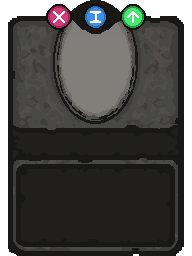
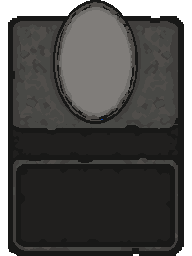
Add new pixel art assets and enhance component styling
- Introduced a new button asset 'btn-info-48.png' and updated existing exercise card assets for improved visual consistency.
- Enhanced the styling of the SearchInput, Input, TextArea, and ExerciseCard components with transition effects for better user interaction.
- Updated pagination and selector components to improve visual feedback and responsiveness.
- Added new props to ExerciseCard for better state management during exercise creation.

Changed region(s): [[0.2188, 0.0, 0.7812, 0.1562]]

diff --git a/src/components/exercise/exercise-card.tsx b/src/components/exercise/exercise-card.tsx
@@ -12,6 +12,7 @@ interface ExerciseCardProps {
     options?: { replace: boolean }
   ) => void;
   isCreatingTemplate?: boolean;
+  isCreatingExercise?: boolean;
   templateExercises?: TemplateExercise[];
   setTemplateExercises?: (exercises: TemplateExercise[]) => void;
 }
@@ -22,6 +23,7 @@ export const ExerciseCard = ({
   setExerciseForUpdate,
   setSearchParams,
   isCreatingTemplate,
+  isCreatingExercise,
   templateExercises,
   setTemplateExercises,
 }: ExerciseCardProps) => {
@@ -45,14 +47,30 @@ export const ExerciseCard = ({
         key={exercise.id}
         onClick={handleAddExerciseToTemplate}
         className={`${
-          !isCreatingTemplate
-            ? "cursor-default"
-            : "cursor-pointer hover:scale-105 transition-all duration-300"
-        } flex-col w-[192px] h-[256px] flex items-center justify-center rounded-md flex-grow-0 flex-shrink-0 transition-all duration-300 relative`}
+          !isCreatingTemplate ? "cursor-default" : "cursor-pointer"
+        } flex-col w-[192px] h-[256px] flex items-center group justify-center rounded-md flex-grow-0 flex-shrink-0 transition-all duration-300 relative`}
         src="src/assets/pixel-art/exercise-cards/generic-exercise-card.png"
         alt="exercise-card"
         imgClassName="absolute top-0 left-0 w-full h-full"
       >
+        <button
+          onClick={(e: React.MouseEvent<HTMLButtonElement>) => {
+            e.preventDefault();
+            e.stopPropagation();
+            console.log(exerciseForUpdate, isCreatingExercise);
+          }}
+        >
+          <RenderPng
+            src="src/assets/pixel-art/buttons/btn-info-48.png"
+            alt="info-button"
+            className={`absolute top-0 right-[-0.5rem] size-[48px] hidden ${
+              !exerciseForUpdate && !isCreatingExercise
+                ? "group-hover:block"
+                : ""
+            } cursor-pointer`}
+            imgClassName="transition-all filter brightness-75 duration-200 hover:brightness-110"
+          />
+        </button>
         {/* <div
           className={`${
             exercise.exerciseMuscleGroups.length < 2
@@ -79,7 +97,7 @@ export const ExerciseCard = ({
             ))}
         </div> */}
 
-        <div className="flex w-full items-center absolute top-6 justify-center pt-3">
+        <div className="flex overflow-hidden items-center absolute top-6 rounded-full size-max justify-center">
           {exercise.exerciseMuscleGroups
             .filter((muscleGroup) => muscleGroup.isPrimary)
             .map((muscleGroup) => (
@@ -87,7 +105,7 @@ export const ExerciseCard = ({
                 key={muscleGroup.muscleGroup.name}
                 src={`src/assets/pixel-art/muscles/${muscleGroup.muscleGroup.name}.svg`}
                 alt={`${muscleGroup.muscleGroup.name} icon`}
-                className="size-16"
+                className="size-18"
               />
             ))}
         </div>
@@ -104,7 +122,7 @@ export const ExerciseCard = ({
             position="center"
             size="auto"
             repeat="no-repeat"
-            className={` size-7 rounded-lg p-1 absolute top-28`}
+            className="size-7 rounded-lg p-1 absolute top-28"
           />
         )}
 
@@ -128,7 +146,7 @@ export const ExerciseCard = ({
             ? exercise.description
             : "There is no description"}
         </div>
-        {setSearchParams && (
+        {/* {setSearchParams && (
           <button
             className="cursor-pointer absolute left-[47px] top-[5px] size-6 rounded-full"
             disabled={
@@ -168,7 +186,7 @@ export const ExerciseCard = ({
               }
             }}
           />
-        )}
+        )} */}
       </RenderPng>
     </>
   );

diff --git a/src/pages/user/components/execises/form/exercise-form.tsx b/src/pages/user/components/execises/form/exercise-form.tsx
@@ -133,7 +133,7 @@ const ExerciseForm: React.FC<ExerciseFormProps> = React.memo(
                     size="auto"
                     repeat="no-repeat"
                     position="center"
-                    className="size-[32px] transition-all duration-300 opacity-50 hover:opacity-100"
+                    className="size-[32px] transition-all duration-200 filter brightness-75 hover:brightness-110"
                   />
                 </div>
                 <button
@@ -153,7 +153,7 @@ const ExerciseForm: React.FC<ExerciseFormProps> = React.memo(
                     size="auto"
                     repeat="no-repeat"
                     position="center"
-                    className="size-[32px] transition-all duration-300 opacity-50 hover:opacity-100"
+                    className="size-[32px] transition-all duration-200 filter brightness-75 hover:brightness-110"
                   />
                 </button>
               </div>
@@ -164,7 +164,11 @@ const ExerciseForm: React.FC<ExerciseFormProps> = React.memo(
               className="absolute inset-0 z-99 flex items-start pt-16 cursor-pointer lg:hidden justify-center backdrop-blur-xs bg-neutral-950/50"
               onClick={toggleTooltip}
             >
-              <ExerciseCard exercise={exercise} />
+              <ExerciseCard
+                exercise={exercise}
+                isCreatingExercise={isCreatingExercise}
+                exerciseForUpdate={exerciseForUpdate}
+              />
             </div>
           )}
           <div className="flex flex-col gap-y-2 px-1 h-full overflow-y-auto no-scrollbar">
@@ -253,7 +257,11 @@ const ExerciseForm: React.FC<ExerciseFormProps> = React.memo(
               </div>
 
               <div className="hidden md:col-start-2 col-span-1 md:flex size-full items-center justify-center">
-                <ExerciseCard exercise={exercise} />
+                <ExerciseCard
+                  exercise={exercise}
+                  isCreatingExercise={isCreatingExercise}
+                  exerciseForUpdate={exerciseForUpdate}
+                />
               </div>
 
               <div className="gap-y-3 flex flex-col md:col-start-3 col-span-3 md:col-span-1">
@@ -293,7 +301,7 @@ const ExerciseForm: React.FC<ExerciseFormProps> = React.memo(
                 size="auto"
                 repeat="no-repeat"
                 position="center"
-                className="size-full pb-[4px] transition-all duration-300 opacity-75 tracking-wide hover:opacity-100"
+                className="size-full pb-[4px] tracking-wide flex items-center justify-center filter duration-200 transition-all hover:brightness-125"
               >
                 {isLoading ? (
                   <span className="loading loading-dots loading-md"></span>

diff --git a/src/pages/user/components/template/desktop-template-item.tsx b/src/pages/user/components/template/desktop-template-item.tsx
@@ -111,7 +111,7 @@ export const DesktopTemplateItem: React.FC<DesktopTemplateItemProps> = ({
         <button
           onClick={onRemove}
           aria-label="Remove exercise"
-          className="size-[22px] absolute right-2 top-1/2 -translate-y-1/2 hidden group-hover:block cursor-pointer opacity-60 hover:opacity-100"
+          className="size-[22px] absolute right-2 top-1/2 -translate-y-1/2 hidden group-hover:block cursor-pointer transition-all filter brightness-75 duration-200 hover:filter hover:brightness-110"
         >
           <RenderSvg
             src="url(src/assets/pixel-art/icons/circular-cancel-icon-22.svg)"
@@ -124,8 +124,10 @@ export const DesktopTemplateItem: React.FC<DesktopTemplateItemProps> = ({
         <button
           onClick={() => setIsEditing(!isEditing)}
           className={`${
-            !notes ? "opacity-35" : "opacity-100"
-          } size-[22px] absolute right-9 top-1/2 -translate-y-1/2 hidden group-hover:block cursor-pointer hover:opacity-100`}
+            !notes
+              ? "opacity-35 brightness-75 hover:brightness-110 hover:opacity-75"
+              : "opacity-100 brightness-100 hover:brightness-125"
+          } size-[22px] absolute right-9 top-1/2 -translate-y-1/2 hidden group-hover:block cursor-pointer transition-all duration-200 filter hover:filter`}
         >
           <RenderSvg
             src="url(src/assets/pixel-art/icons/circular-notes-icon-22.svg)"

diff --git a/src/pages/user/components/execises/exercise-codex/codex-pagination.tsx b/src/pages/user/components/execises/exercise-codex/codex-pagination.tsx
@@ -24,8 +24,10 @@ const CodexPaginationComponent: React.FC<CodexPaginationProps> = ({
         className={`sticky ${
           !isCreatingTemplate ? "left-2" : "left-2 lg:left-3"
         } z-2 top-1/2 translate-y-1/2 size-8 pb-[2px] ${
-          currentPage === 1 ? "opacity-50 cursor-default" : "cursor-pointer"
-        }`}
+          currentPage === 1
+            ? "brightness-50 cursor-default"
+            : "cursor-pointer brightness-100 hover:brightness-125"
+        } filter  duration-200`}
         onClick={() => {
           if (currentPage > 1) {
             setCurrentPage(currentPage - 1);
@@ -52,9 +54,9 @@ const CodexPaginationComponent: React.FC<CodexPaginationProps> = ({
             : "left-[calc(100%-2.5rem)] lg:left-[calc(100%-24rem)]"
         } z-2 top-1/2 translate-y-1/2 size-8 pb-[2px] ${
           currentPage === totalPages
-            ? "opacity-50 cursor-default"
-            : "cursor-pointer"
-        }`}
+            ? "brightness-50 cursor-default"
+            : "cursor-pointer brightness-100 hover:brightness-125"
+        } filter duration-200`}
         onClick={() => {
           if (currentPage < totalPages) {
             setCurrentPage(currentPage + 1);

diff --git a/src/pages/user/components/execises/form/desktop-template-creation-list.tsx b/src/pages/user/components/execises/form/desktop-template-creation-list.tsx
@@ -182,7 +182,7 @@ const TemplateCreationList = React.memo(
                   size="auto"
                   repeat="no-repeat"
                   position="center"
-                  className="size-full cursor-pointer text-xl font-bold flex items-center justify-center pb-1"
+                  className="size-full cursor-pointer text-xl font-bold flex items-center justify-center pb-1 transition-all duration-200 filter brightness-75 hover:brightness-110"
                 >
                   {isLoading ? "Creating..." : "Create Template"}
                 </RenderSvg>
@@ -192,7 +192,7 @@ const TemplateCreationList = React.memo(
                   e.preventDefault();
                   setTemplateExercises([]);
                 }}
-                className="h-full w-[calc(24*4px)] opacity-75 hover:opacity-100 transition-opacity duration-200"
+                className="h-full w-[calc(24*4px)] transition-all duration-200 filter brightness-75 hover:brightness-110"
               >
                 <RenderSvg
                   src="url(src/assets/pixel-art/buttons/btn-erase-template.svg)"

diff --git a/src/pages/user/components/execises/exercise-codex/card-counter.tsx b/src/pages/user/components/execises/exercise-codex/card-counter.tsx
@@ -27,12 +27,14 @@ export const CardCounter = ({
   return (
     <RenderSvg
       src={getImageSrc(templateExercises.length)}
-      size={`${isCreatingTemplate ? "96px" : "48px"}`}
+      size={`${isCreatingTemplate ? "64px" : "48px"}`}
       repeat="no-repeat"
       position="center"
       className={`${
-        isCreatingTemplate ? "size-24" : "size-12"
-      }  cursor-pointer transition-all duration-300 flex items-center justify-center flex-col relative`}
+        isCreatingTemplate
+          ? "size-[64px] brightness-125  hover:brightness-100"
+          : "size-12 brightness-75  hover:brightness-100"
+      }  cursor-pointer transition-all duration-300 flex items-center justify-center flex-col relative filter`}
     >
       <button
         onClick={() => setIsCreatingTemplate(!isCreatingTemplate)}

diff --git a/src/pages/user/components/execises/exercise-codex/codex-selector.tsx b/src/pages/user/components/execises/exercise-codex/codex-selector.tsx
@@ -78,9 +78,9 @@ export const CodexSelector: React.FC<CategorySelectorProps> = React.memo(
                   }
                   className={`${
                     selectedCategory === category.category
-                      ? "opacity-100"
-                      : "opacity-35"
-                  }`}
+                      ? "brightness-100"
+                      : "brightness-50"
+                  } filter duration-200 transition-all hover:brightness-110`}
                 >
                   <div className="lg:hidden cursor-pointer">
                     {category.icon}

diff --git a/src/pages/user/components/execises/exercise-codex/exercise-codex.tsx b/src/pages/user/components/execises/exercise-codex/exercise-codex.tsx
@@ -202,6 +202,7 @@ export const ExerciseCodex = React.memo(
                           exercise={exercise}
                           setSearchParams={setSearchParams}
                           isCreatingTemplate={isCreatingTemplate}
+                          isCreatingExercise={isCreatingExercise}
                           templateExercises={templateExercises}
                           setTemplateExercises={setTemplateExercises}
                         />

diff --git a/src/components/search-input.tsx b/src/components/search-input.tsx
@@ -6,7 +6,7 @@ interface SearchInputProps {
 
 export const SearchInput = ({ setSearchTerm }: SearchInputProps) => {
   return (
-    <div className="h-8 w-1/2 lg:w-1/3 px-4 flex opacity-80 relative">
+    <div className="h-8 w-1/2 lg:w-1/3 px-4 flex filter duration-200 transition-all hover:brightness-125 brightness-75 relative">
       <RenderSvg
         src="url(src/assets/pixel-art/body/input-side-32.svg)"
         size="auto"

diff --git a/src/components/forms/input.tsx b/src/components/forms/input.tsx
@@ -8,7 +8,7 @@ interface InputProps extends InputHTMLAttributes<HTMLInputElement> {
 
 export const Input = ({ label, hasLabel, className, ...props }: InputProps) => {
   return (
-    <div className="gap-y-1 flex w-full flex-col">
+    <div className="gap-y-1 flex w-full flex-col filter duration-200 transition-all hover:brightness-125">
       {hasLabel && (
         <div className="w-full">
           {" "}

diff --git a/src/components/forms/text-area.tsx b/src/components/forms/text-area.tsx
@@ -16,7 +16,7 @@ export const TextArea = ({
   ...props
 }: TextAreaProps) => {
   return (
-    <div className="gap-y-1 flex flex-col">
+    <div className="gap-y-1 flex flex-col filter duration-200 transition-all hover:brightness-125 ">
       {hasLabel && (
         <div className="w-full">
           <label className="label">

diff --git a/src/components/forms/select.tsx b/src/components/forms/select.tsx
@@ -117,7 +117,7 @@ export const Select = ({
   return (
     <>
       <div
-        className={`gap-y-1 flex flex-col text ${className || ""}`}
+        className={`gap-y-1 flex flex-col text ${className || ""} `}
         ref={dropdownRef}
       >
         {hasLabel && (
